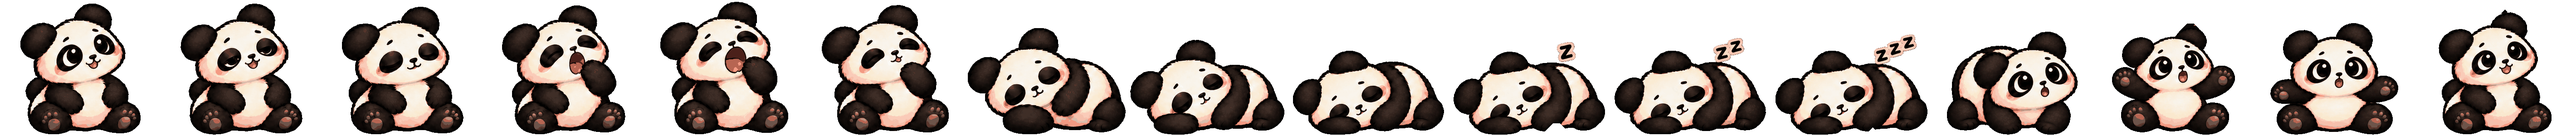
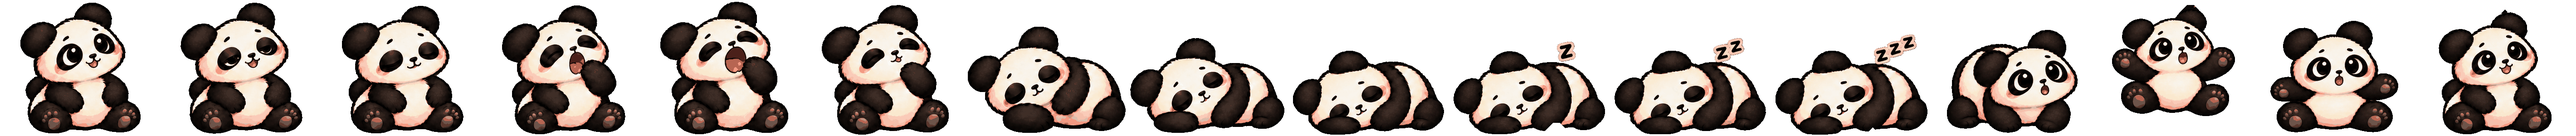
Let the Panda leave the ground when it is startled awake
Frame 14 is the pet jumping, 41px clear of the ground in the sheet as
drawn. Packing stood every frame on one floor and put it straight back
down.

Frames now keep the height they were drawn at, measured against their own
row's floor. Standing them all on one line is the obvious way to pack a
sheet and it is exactly wrong: once you are flattening you cannot tell
the drawing's own few pixels of wobble from a jump the animation is
about. Everything other than 14 lands within 5px of its row and keeps
that too.

I had written the warning into the celebration's comment - that anchoring
per frame would cancel the lean the pet does at the bloom - and then made
the same mistake in the other direction one sheet later.

Checked the celebration sheet for the same fault while here: it has none,
every frame within 3px of its row, so its flat floor destroyed nothing.

ART_VERSION goes to 22: the sheet changed under a name already cached.

Verified: all sixteen frames still play in order to 4,650ms, frame 14
renders 41px off a ground line the frames either side of it touch, and no
page errors.

Claude-Session: https://claude.ai/code/session_01YRzrKPfiP3SQKKej9Vjk7N

diff --git a/index.html b/index.html
@@ -1861,10 +1861,19 @@ const SKILLS = {
            the upper pet's feet. Cut on a minimum-cost seam that weaves between
            them rather than on a straight line - ten of the twelve boundaries
            come out crossing nothing at all, and the two that touch cross 46
-           and 15 pixels instead of shearing an ear flat. */
+           and 15 pixels instead of shearing an ear flat.
+
+           Frames keep the height off the ground they were drawn at, measured
+           against their own row's floor. Standing them all on one line is the
+           obvious way to pack a sheet and it is wrong here: frame 14 is the
+           pet startled awake and leaving the ground by 41px, and a flat floor
+           silently plants it back down. Everything else lands within 5px of
+           its row, which is the drawing's own wobble and is kept rather than
+           straightened - once you are flattening you cannot tell the wobble
+           from the jump. */
         durations:[220, 240, 260, 360, 360, 220, 190, 220,
                    340, 400, 400, 400, 280, 220, 200, 340],
-        aspect:1.1833, scale:1.2, dx:4.05, dy:-14.31 } }
+        aspect:1.1833, scale:1.2, dx:4.05, dy:-13.51 } }
   ]
 };
 function skillsFor(speciesId){ return SKILLS[speciesId] || []; }
@@ -3336,8 +3345,8 @@ function spriteConfig(species, stage){
 /* Stamped into Settings so a device can say which build it is running. GitHub
    Pages caches index.html and offers no way to set headers on it, so a missing
    feature and a stale page look the same without this. */
-const BUILD_ID = "2026-09-21 934cffe";
-const ART_VERSION = "21";
+const BUILD_ID = "2026-09-21 15edf52";
+const ART_VERSION = "22";
 function assetURL(src){
   return /^art\//.test(src) ? src + "?v=" + ART_VERSION : src;
 }

diff --git a/README.md b/README.md
@@ -671,6 +671,15 @@ line — ten of the twelve boundaries come out crossing nothing at all, and the
 two that touch cross 46 and 15 pixels instead of shearing an ear flat. The same
 lesson as the Panda's celebration, applied before shipping it rather than after.
 
+**Frames keep the height off the ground they were drawn at**, measured against
+their own row's floor. Standing them all on one line is the obvious way to pack
+a sheet and it is wrong here: frame 14 is the pet startled awake and leaving the
+ground by 41px, and a flat floor silently plants it back down. Everything else
+lands within 5px of its row, which is the drawing's own wobble and is kept
+rather than straightened — once you are flattening, you cannot tell the wobble
+from the jump. The celebration sheet was checked for the same thing and has
+none: every frame of it sits within 3px of its row.
+
 The dimmed-chip machinery it used to need is still there for the next skill
 that arrives without art: a move that is this form's own but has no sheet shows
 a dashed chip that says so when tapped, and the Evolution screen reads
